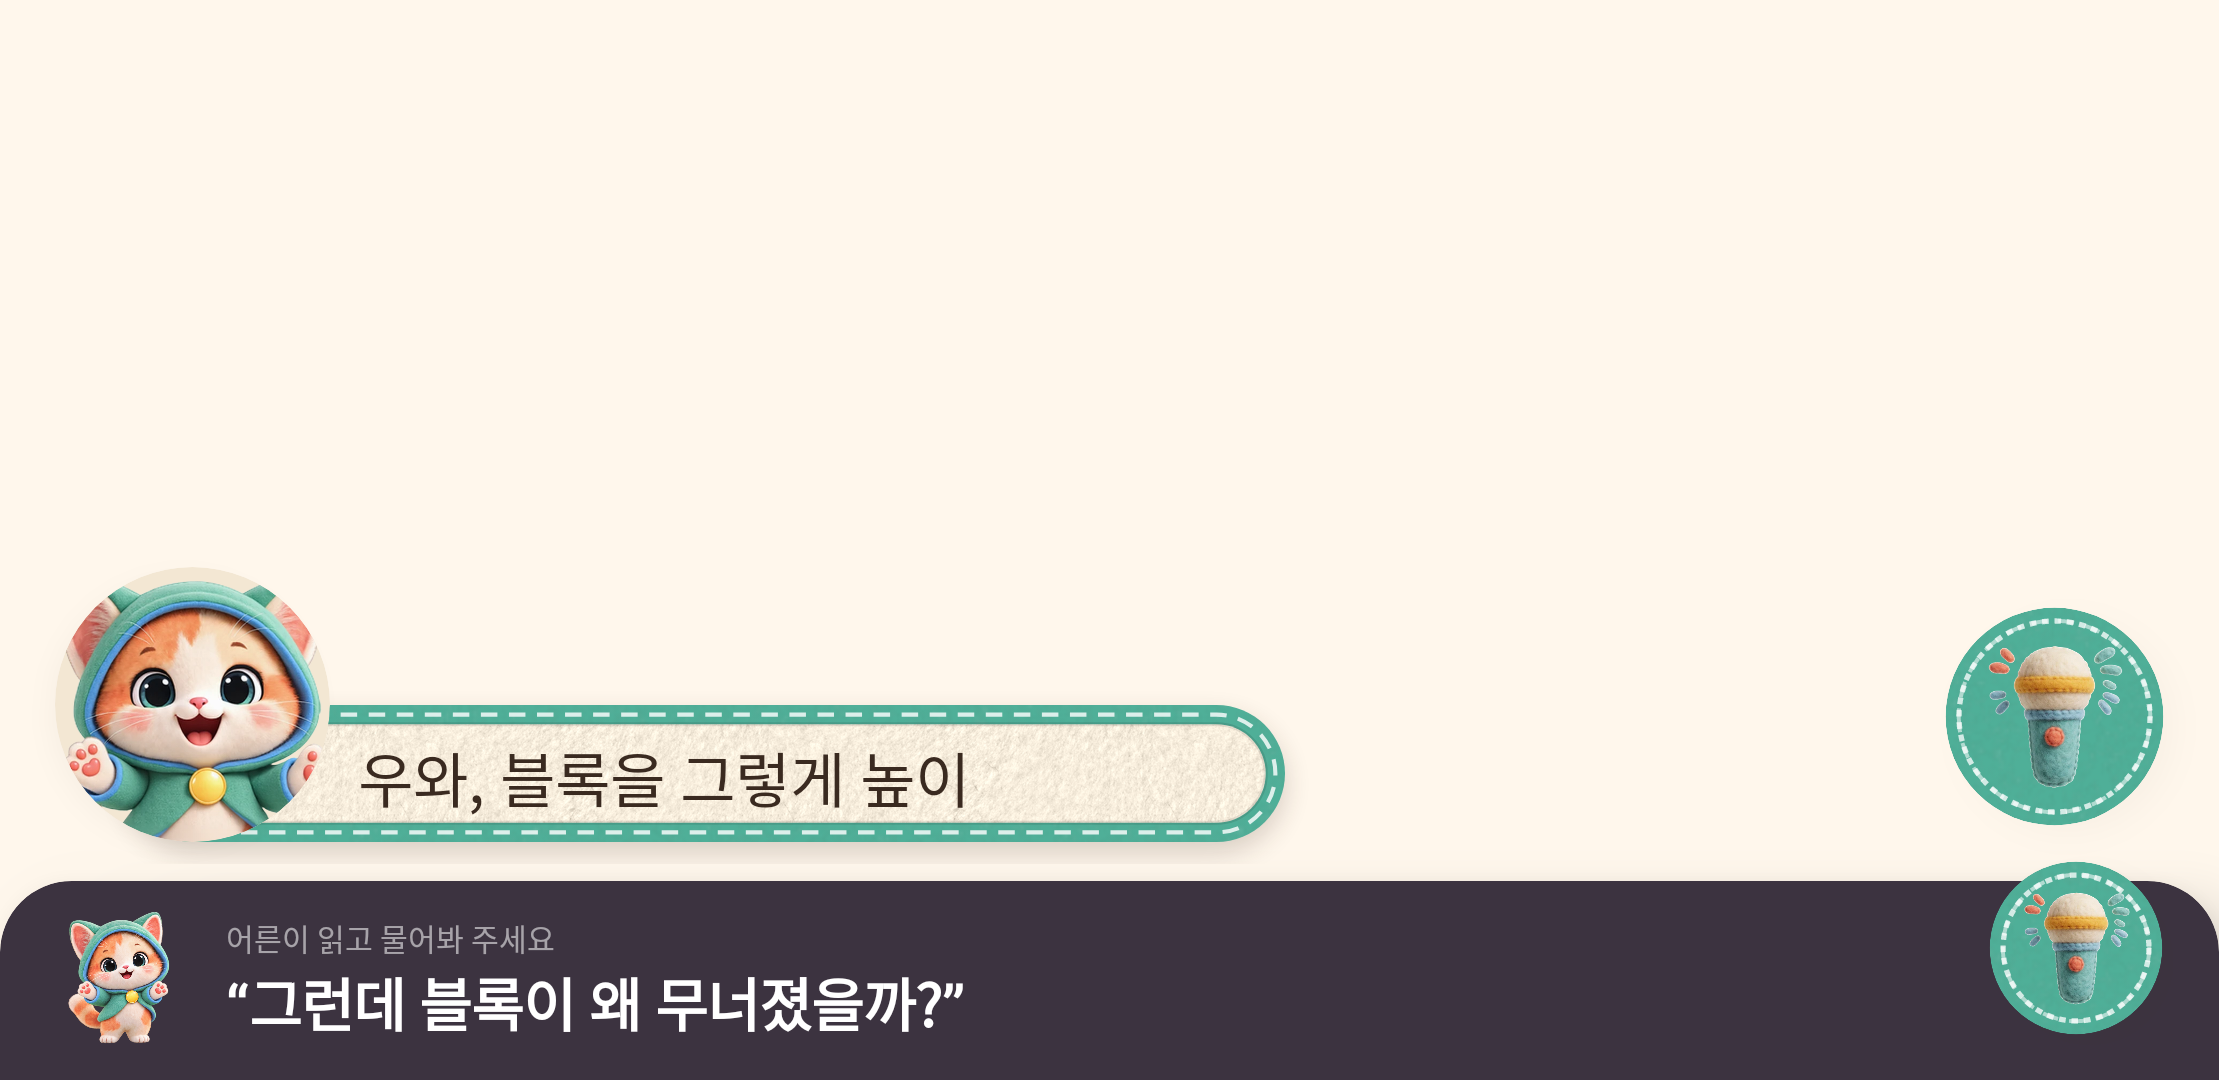
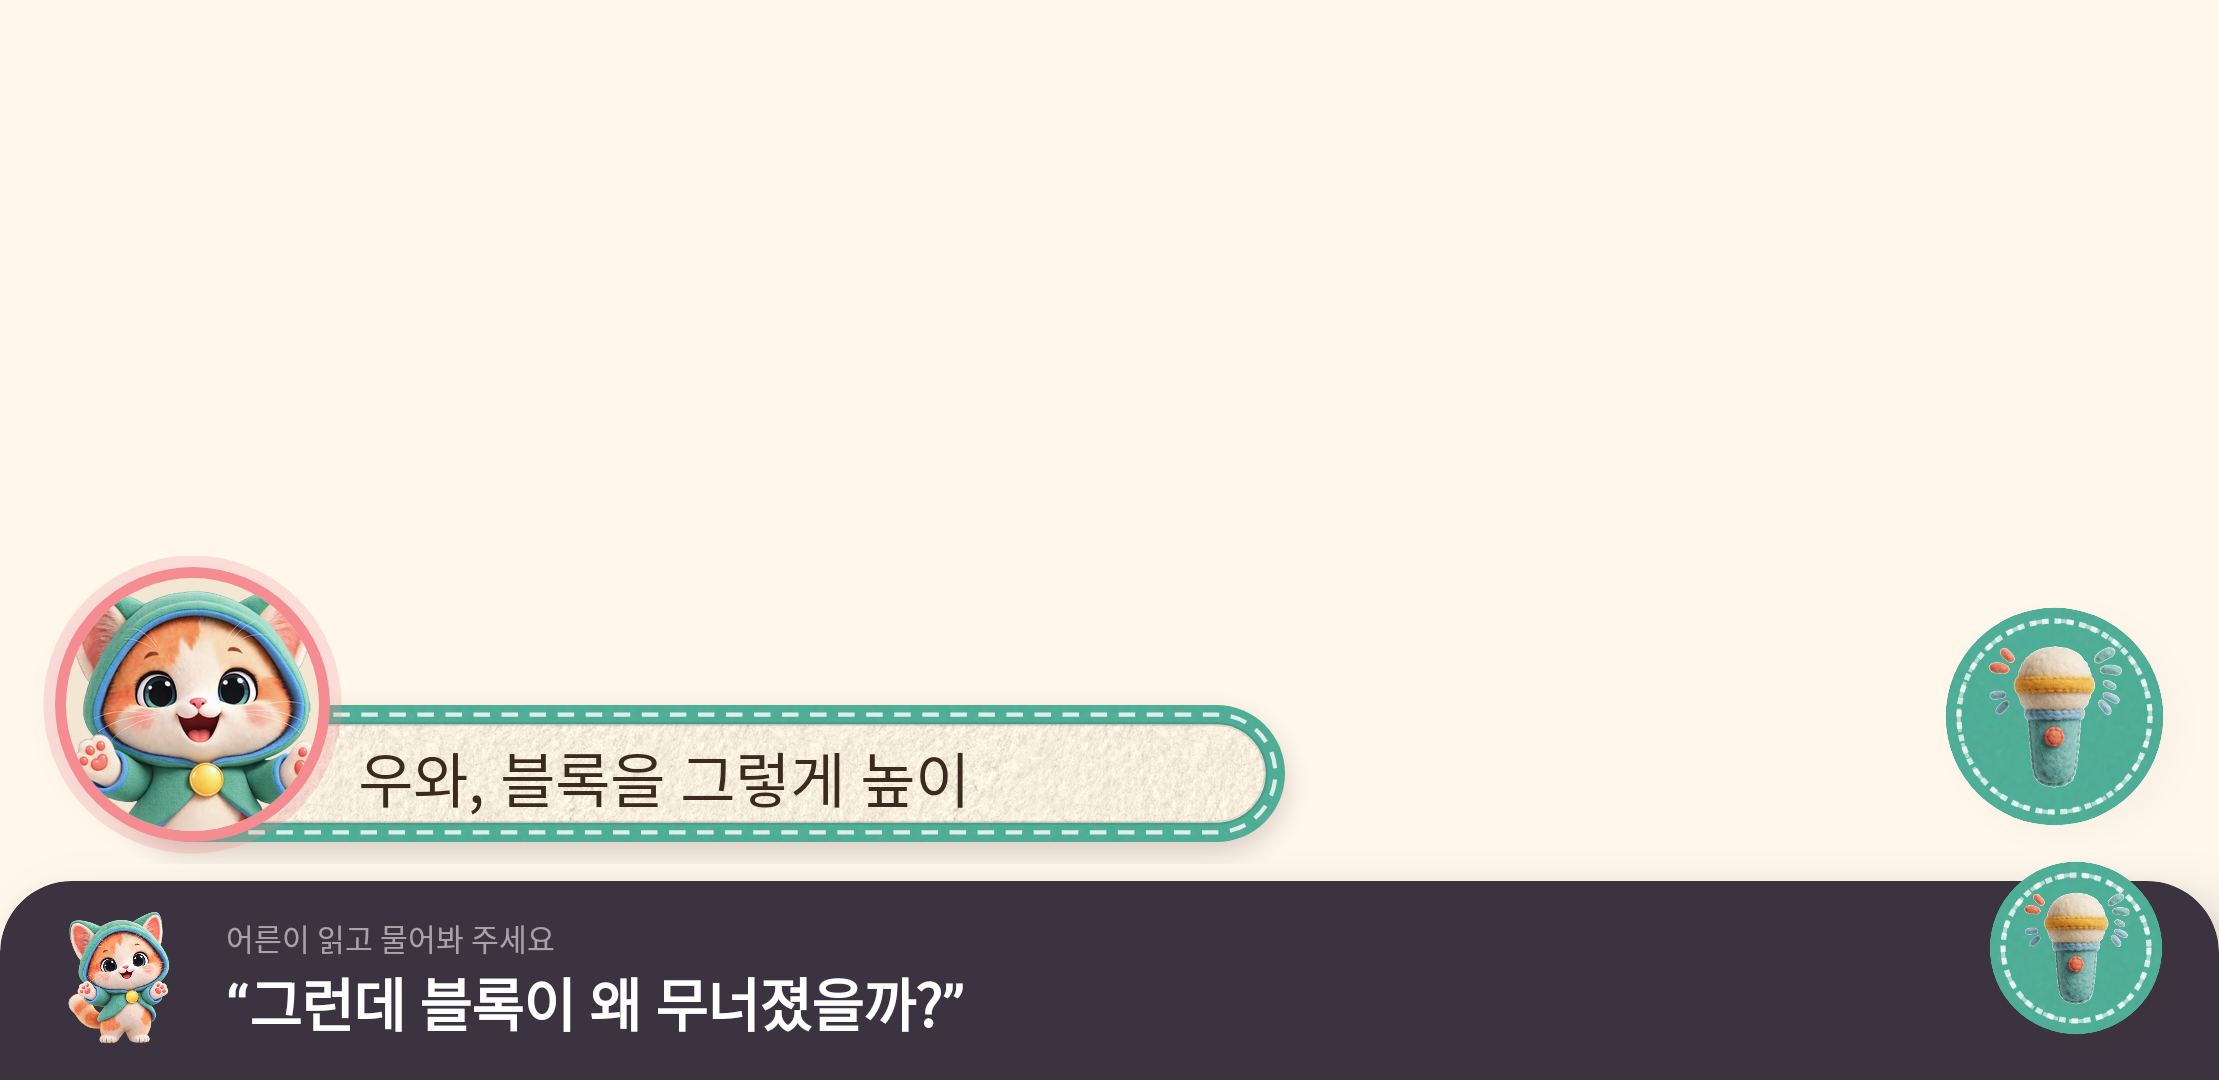
Narration band bends to stay attached when Otto hops
OttoFace reports how far it is lifted each frame; the band reads it while
drawing and lifts its left end by the same amount, easing back to its rest
line just past the face, so it looks like cloth pulled along. The text part
of the band never moves. Re-record coop_bottom for the glow and bend.

Claude-Session: https://claude.ai/code/session_01TcKHWTRGzC6PovjUsnLfT1

Changed region(s): [[0.0, 0.5194, 0.1555, 0.7944]]

diff --git a/android/app/src/main/java/com/example/finalproject_demo/ui/shell/Narration.kt b/android/app/src/main/java/com/example/finalproject_demo/ui/shell/Narration.kt
@@ -32,8 +32,8 @@ import androidx.compose.ui.graphics.Path
 import androidx.compose.ui.graphics.drawscope.drawIntoCanvas
 import androidx.compose.ui.graphics.Paint
 import androidx.compose.ui.draw.alpha
-import androidx.compose.ui.geometry.CornerRadius
-import androidx.compose.ui.geometry.RoundRect
+import androidx.compose.runtime.mutableFloatStateOf
+import androidx.compose.ui.geometry.Rect
 import androidx.compose.ui.unit.dp
 import androidx.compose.ui.unit.sp
 import com.example.finalproject_demo.demo.Mood
@@ -58,7 +58,7 @@ enum class NarrationMode(val color: Color, val label: String, val icon: String) 
 /**
  * **나레이션 칸** — 화면 아래 한 줄: **[오또 얼굴] [오또가 하는 말 띠]** · 오른쪽 끝에 따로 선 **[녹음 버튼]**.
  *
- *   얼굴 불빛 = 차례 — 답을 기다릴 때 · 녹음 중일 때 청록 테두리와 파동 (말하는 중에는 없다)
+ *   얼굴 테두리 = 차례 — 분홍 말함 · 청록 들음 · 겨자 생각. 말할 때 · 기다릴 때 · 들을 때 테두리 색 파동이 퍼진다
  *   얼굴 그림 = 표정 — [Expr] (기쁨 · 깜짝 · 속상 · 궁금 · 뿌듯). 표정마다 움직임도 다르다
  *   띠 테두리 = 모드 — 빨강 이야기 만들기 · 파랑 오늘 이야기 · 청록 같이 만들기
  *
@@ -89,6 +89,8 @@ fun Narration(
     val fiberImg = ImageBitmap.imageResource(R.drawable.felt_texture)
     val cream = remember(creamImg) { ShaderBrush(ImageShader(creamImg, TileMode.Repeated, TileMode.Repeated)) }
     val fibers = remember(fiberImg) { ShaderBrush(ImageShader(fiberImg, TileMode.Repeated, TileMode.Repeated)) }
+    // 얼굴이 뛰어오른 높이(px, 위가 음수) — 그리기 단계에서만 읽어 띠 왼쪽이 얼굴을 따라 휜다
+    val lift = remember { mutableFloatStateOf(0f) }
     Row(
         modifier.fillMaxWidth().padding(start = 12.dp, end = 12.dp, bottom = 8.dp, top = 4.dp),
         verticalAlignment = Alignment.Bottom, horizontalArrangement = Arrangement.SpaceBetween,
@@ -98,7 +100,7 @@ fun Narration(
             Row(
                 Modifier
                     .padding(start = FaceSize / 2)
-                    .drawBehind { drawFeltPill(mode.color, cream, fibers) }
+                    .drawBehind { drawFeltPill(mode.color, cream, fibers, lift.floatValue) }
                     .padding(start = FaceSize / 2 + 10.dp, end = 22.dp, top = 10.dp, bottom = 7.dp),
                 verticalAlignment = Alignment.CenterVertically,
             ) {
@@ -111,9 +113,9 @@ fun Narration(
                     }
                 }
             }
-            // 오또 얼굴 — 혼자 선다 (감싸는 테두리 없음). 답을 기다릴 때 · 녹음 중일 때만 청록 불빛이 켜진다.
-            // 띠보다 위에 그려 띠 왼쪽 끝을 덮는다
-            OttoFace(state, Modifier.size(FaceSize), burst = burst, burstId = burstId, expr = expr, pulse = true)
+            // 오또 얼굴 — 혼자 선다 (감싸는 테두리 없음). 테두리 색 · 파동이 차례를 알린다.
+            // 띠보다 위에 그려 띠 왼쪽 끝을 덮는다. 뛰면 그 높이를 띠에 알려 띠가 따라 휜다
+            OttoFace(state, Modifier.size(FaceSize), burst = burst, burstId = burstId, expr = expr, pulse = true, onLift = { lift.floatValue = it })
         }
         // 녹음 · 그리기 버튼 — 오른쪽 끝에 따로 선다. 화면 아래 여백 = 화면 오른쪽 여백이 되게 밑에 붙이고,
         // 이 줄 밑에 부르는 쪽 여백(약 6dp)이 더 있어서 그만큼 내린다 — 실물폰(S10)에서 틈을 재어 맞췄다 (09-30)
@@ -125,15 +127,32 @@ fun Narration(
 
 /**
  * 펠트 말 띠 — 모드 색 펠트 테두리(양모 결) 안에 크림 펠트 천(ComfyUI 그림 `narration_felt`)을 얹고,
- * 테두리 가운데로 흰 바느질 점선이 돈다. 띠 자기 크기로만 그려서 첫 프레임부터 모양이 맞다
+ * 테두리 가운데로 흰 바느질 점선이 돈다. 띠 자기 크기로만 그려서 첫 프레임부터 모양이 맞다.
+ *
+ * 띠 왼쪽 둥근 끝의 중심은 얼굴 중심 아래(띠 왼쪽 가장자리)에 둔다 — 둥근 끝이 얼굴 원 안에 숨고 밑선이 얼굴 맨 아래에서
+ * 접선으로 이어진다. 얼굴이 [lift] 만큼 뛰면 왼쪽 끝도 그만큼 올라가고, 얼굴 오른쪽 조금 너머까지 부드럽게 휘어
+ * 원래 높이로 돌아온다 — 천 띠가 얼굴에 붙어 따라 당겨지는 것처럼 (10-01 사용자 요청). 글씨 있는 곳은 움직이지 않는다
  */
-private fun DrawScope.drawFeltPill(edge: Color, cream: ShaderBrush, fibers: ShaderBrush) {
-    // 띠 왼쪽 둥근 끝의 중심을 얼굴 중심 아래(띠 왼쪽 가장자리)에 둔다 — 그러면 둥근 끝이 얼굴 원 안에 다 숨고,
-    // 띠 밑선이 얼굴 맨 아래에서 접선으로 매끈하게 이어진다 (전에는 둥근 끝이 얼굴 밑으로 삐져나왔다)
-    val left = -size.height / 2
+private fun DrawScope.drawFeltPill(edge: Color, cream: ShaderBrush, fibers: ShaderBrush, lift: Float) {
+    val bend = (FaceSize / 2 + 18.dp).toPx()   // 얼굴 중심부터 여기까지만 휜다
+    fun follow(x: Float): Float {              // 얼굴 쪽 1 → bend 너머 0 (부드럽게)
+        val t = (x / bend).coerceIn(0f, 1f)
+        return lift * (1f - t * t * (3f - 2f * t))
+    }
     fun pill(inset: Float) = Path().apply {
-        val h = size.height - inset * 2
-        addRoundRect(RoundRect(left + inset, inset, size.width - inset, size.height - inset, CornerRadius(h / 2)))
+        val top = inset; val bottom = size.height - inset
+        val r = (bottom - top) / 2
+        val right = size.width - inset
+        val steps = 16
+        moveTo(0f, top + follow(0f))
+        for (i in 1..steps) { val x = bend * i / steps; lineTo(x, top + follow(x)) }
+        lineTo(right - r, top)
+        arcTo(Rect(right - r * 2, top, right, bottom), 270f, 180f, false)
+        lineTo(bend, bottom)
+        for (i in steps - 1 downTo 0) { val x = bend * i / steps; lineTo(x, bottom + follow(x)) }
+        val cy = (top + bottom) / 2 + lift
+        arcTo(Rect(-r, cy - r, r, cy + r), 90f, 180f, false)
+        close()
     }
     val band = EdgeBand.toPx()
     val outer = pill(0f)

diff --git a/android/app/src/main/java/com/example/finalproject_demo/ui/Otto.kt b/android/app/src/main/java/com/example/finalproject_demo/ui/Otto.kt
@@ -120,6 +120,7 @@ fun exprFor(text: String, mood: Mood): Expr {
  * @param burstId 이 번호가 바뀔 때마다 [burst] 가 다시 터진다 (같은 반응이 연달아 와도)
  * @param expr    표정 — 말하는 중 · 가만있을 때만 얼굴 그림을 바꾼다(듣는 중 · 생각하는 중은 그 얼굴 그대로)
  * @param pulse   말하는 중 · 듣는 중 · 기다리는 중이면 테두리 색 파동을 얼굴 둘레에 퍼뜨린다
+ * @param onLift  얼굴이 위아래로 움직인 만큼(px, 위가 음수)을 매 프레임 알린다 — 나레이션 띠가 얼굴을 따라 휘게
  */
 @Composable
 fun OttoFace(
@@ -129,6 +130,7 @@ fun OttoFace(
     burstId: Int = 0,
     expr: Expr = Expr.NONE,
     pulse: Boolean = false,
+    onLift: ((Float) -> Unit)? = null,
 ) {
     val inf = rememberInfiniteTransition(label = "otto")
     val hop by inf.animateFloat(0f, -5f, infiniteRepeatable(tween(200), RepeatMode.Reverse), label = "hop")
@@ -220,7 +222,11 @@ fun OttoFace(
         Box(
             Modifier
                 .fillMaxSize()
-                .offset { IntOffset(0, (baseY * density.density + jump.value).roundToInt()) }
+                .offset {
+                    val y = (baseY * density.density + jump.value).roundToInt()
+                    onLift?.invoke(y.toFloat())
+                    IntOffset(0, y)
+                }
                 .graphicsLayer {
                     scaleX = sx.value * baseScale; scaleY = sy.value * baseScale
                     rotationZ = baseTilt + shake.value
